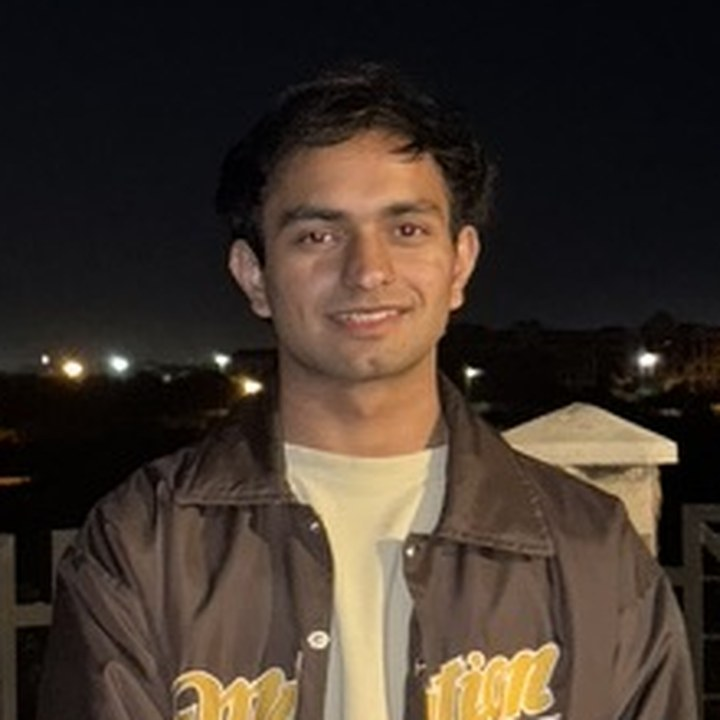
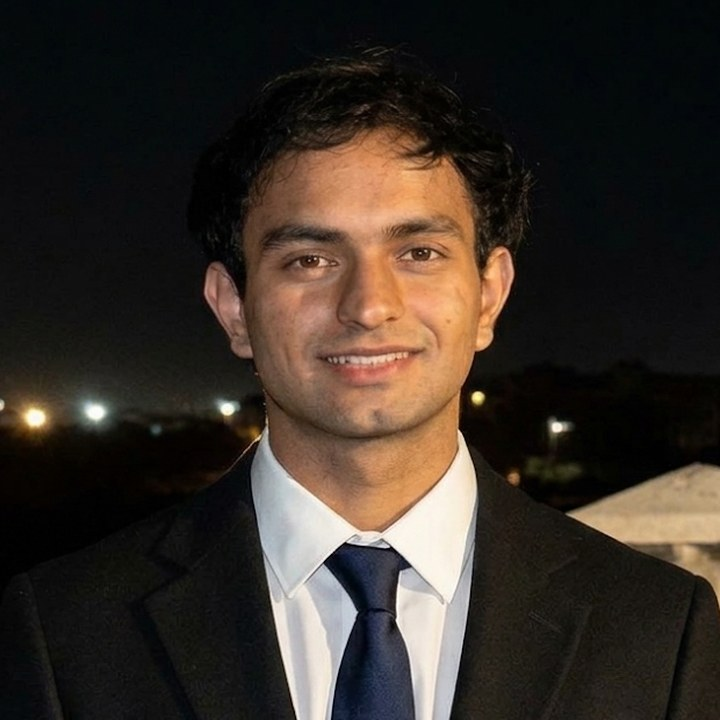
join form: note that it's for remote research collaborators, not a fellowship; Umer's new photo and title

diff --git a/src/data/site.ts b/src/data/site.ts
@@ -585,7 +585,7 @@ export const team: TeamMember[] = [
   },
   {
     name: 'Muhammad Umer',
-    title: 'Web Architect',
+    title: 'Web & Digital Media Manager',
     details: ['MCA Heart Research Lab'],
     email: 'muh4mm4dumer@gmail.com',
     photo: '/assets/team/muhammad-umer.jpg',
